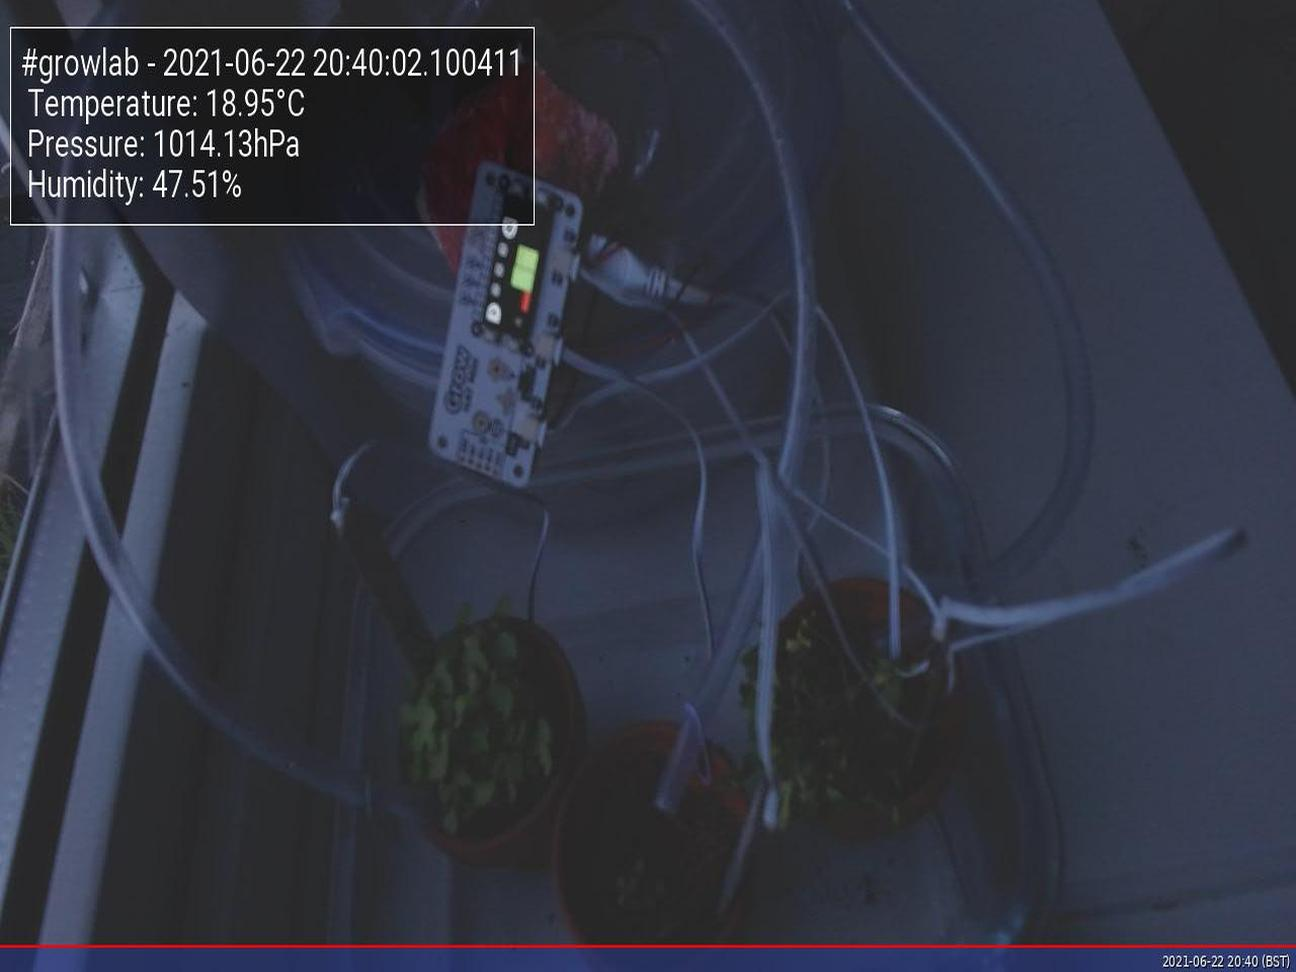
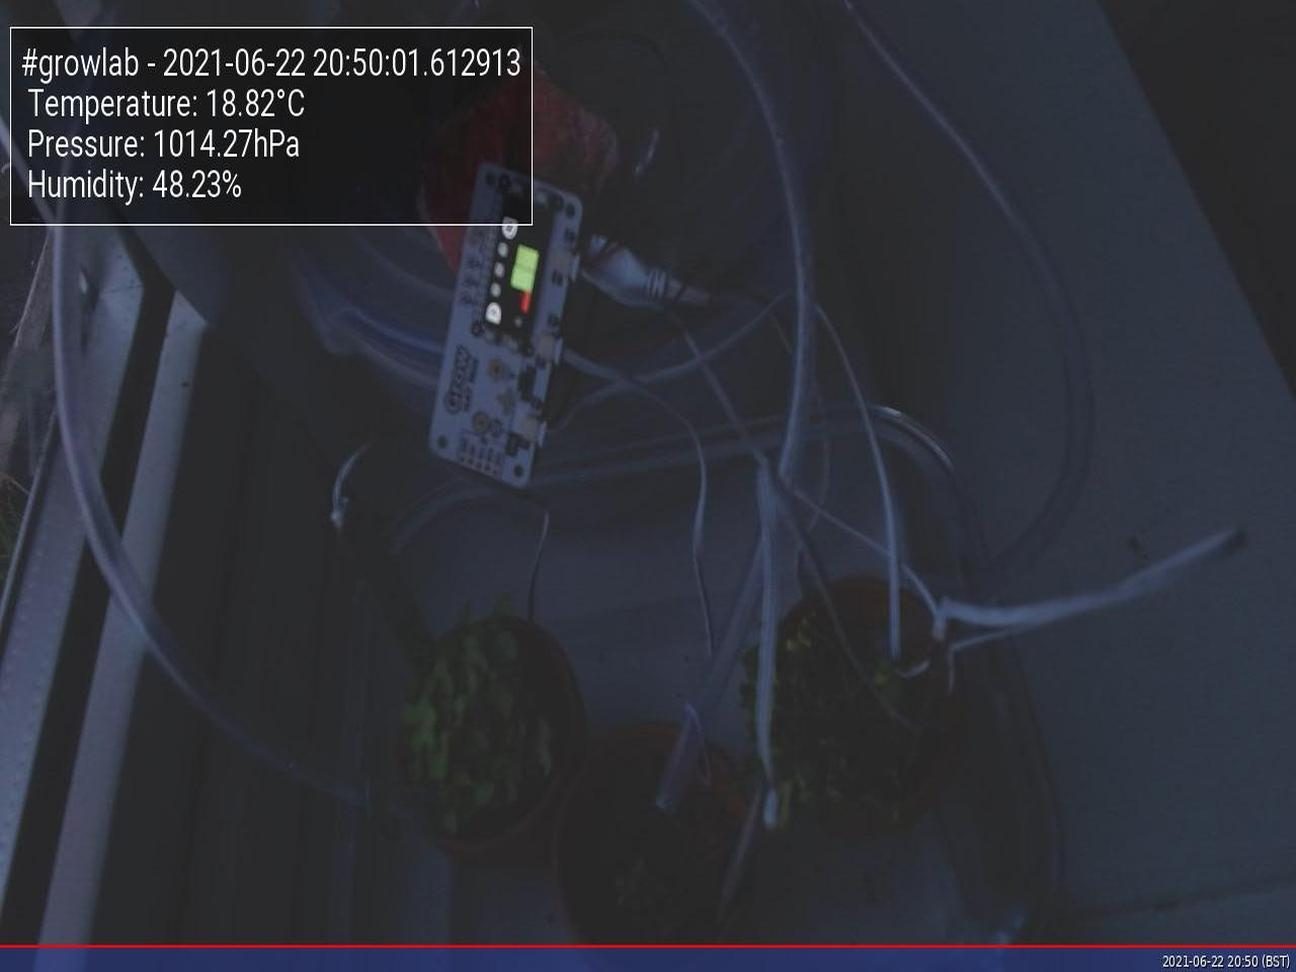
Update images at Tue 22 Jun 20:50:05 BST 2021

diff --git a/app/docs/index.html b/app/docs/index.html
@@ -47,19 +47,19 @@
                         <tbody>
                             <tr>
                                 <td>Time</td>
-                                <td>2021-06-22 20:40:02.100411</td>
+                                <td>2021-06-22 20:50:01.612913</td>
                             </tr>
                             <tr>
                                 <td>Temperature</td>
-                                <td>18.95°C</td>
+                                <td>18.82°C</td>
                             </tr>
                             <tr>
                                 <td>Humidity</td>
-                                <td>47.51%</td>
+                                <td>48.23%</td>
                             </tr>
                             <tr>
                                 <td>Pressure</td>
-                                <td>1014.13hPa</td>
+                                <td>1014.27hPa</td>
                             </tr>
                         </tbody>
                     </table>
@@ -67,7 +67,7 @@
 
                 <h5>Latest image</h5>
                 <div style="width: 85%;">
-                            <img class="figure-img img-fluid rounded" src="./preview.jpg?uid=1624390805.846358">
+                            <img class="figure-img img-fluid rounded" src="./preview.jpg?uid=1624391405.2811174">
                 </div>
             </div>
         </div>
